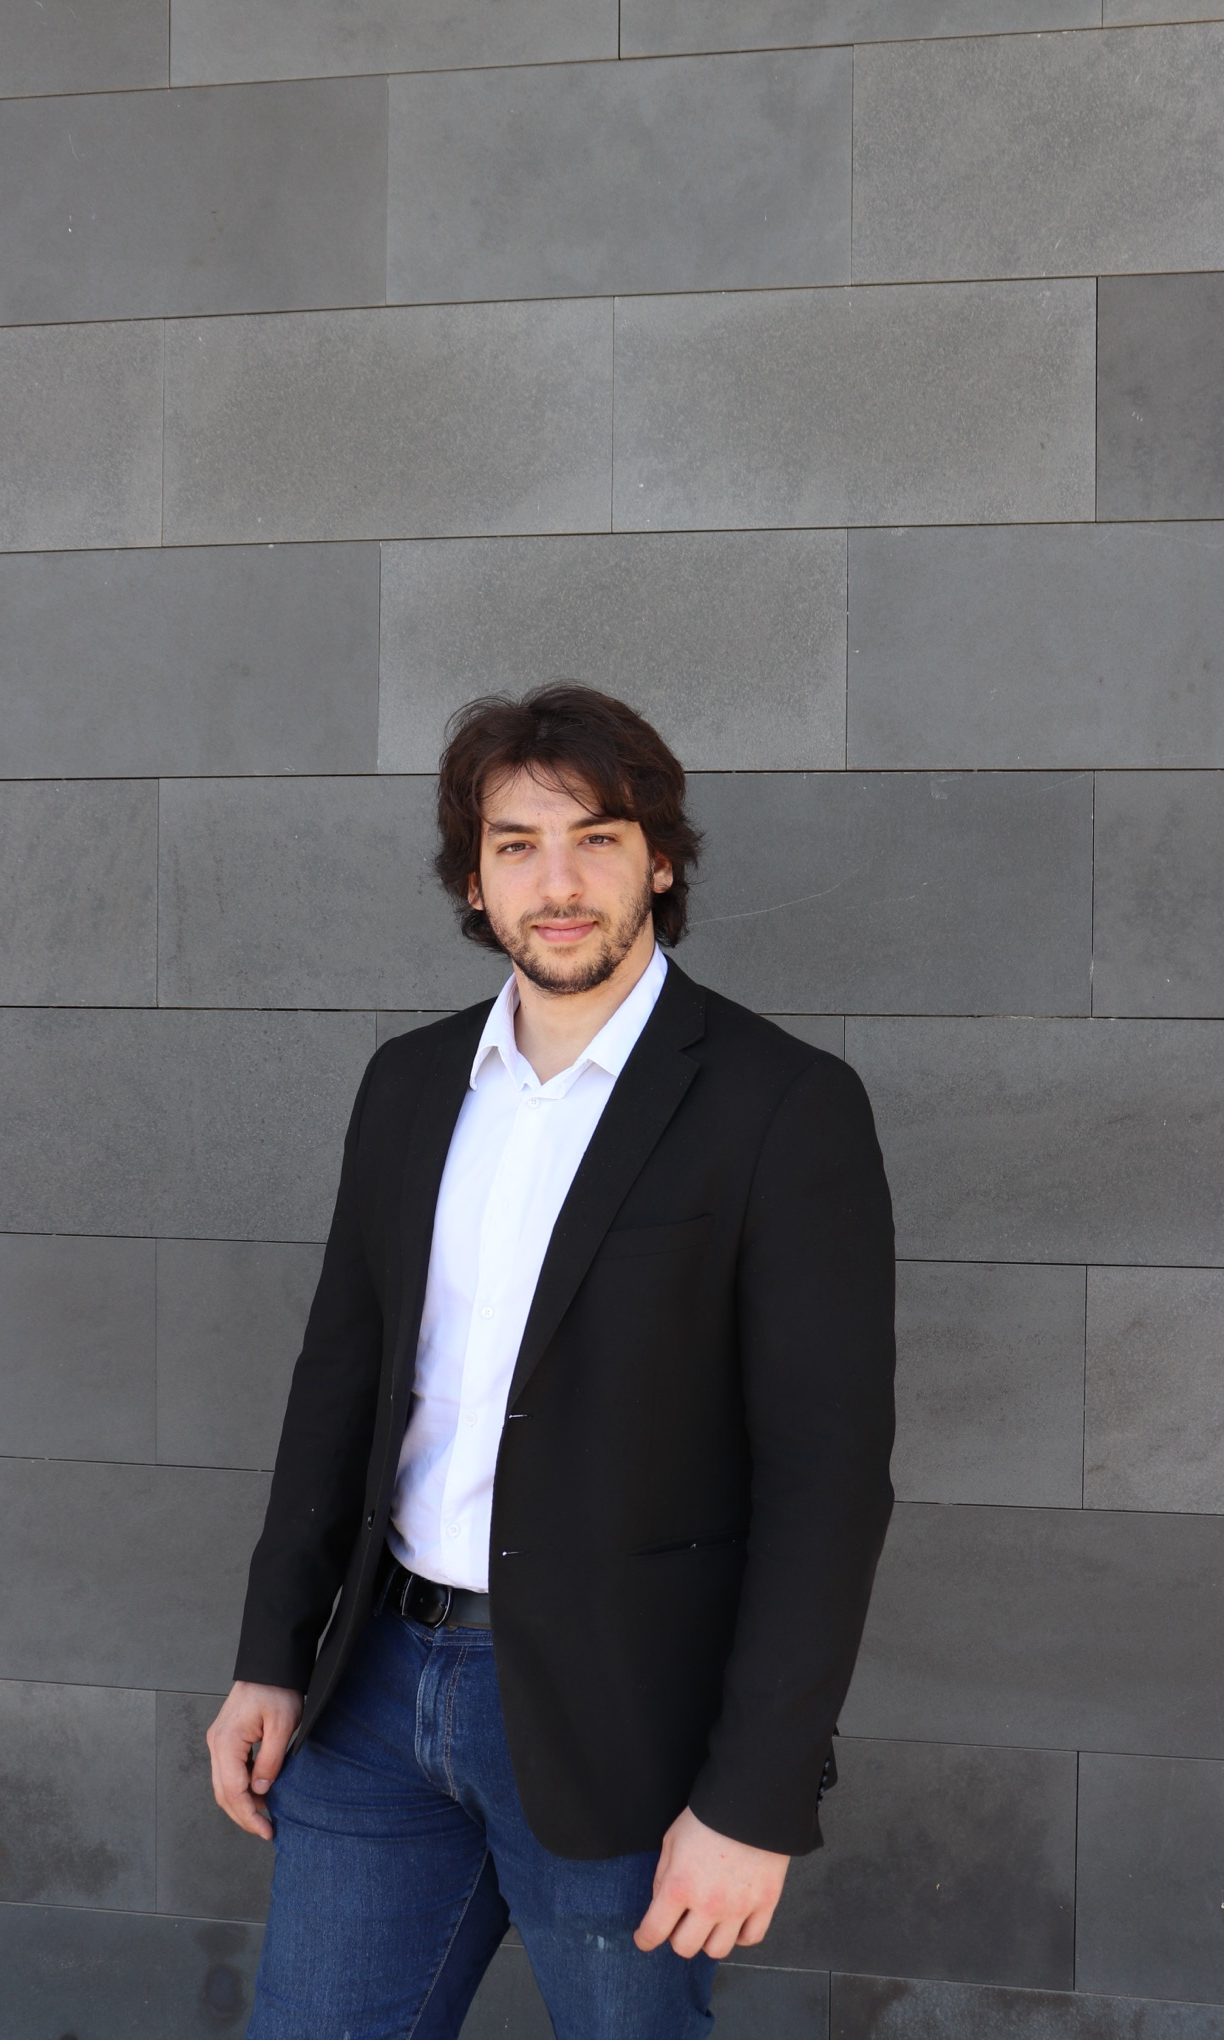
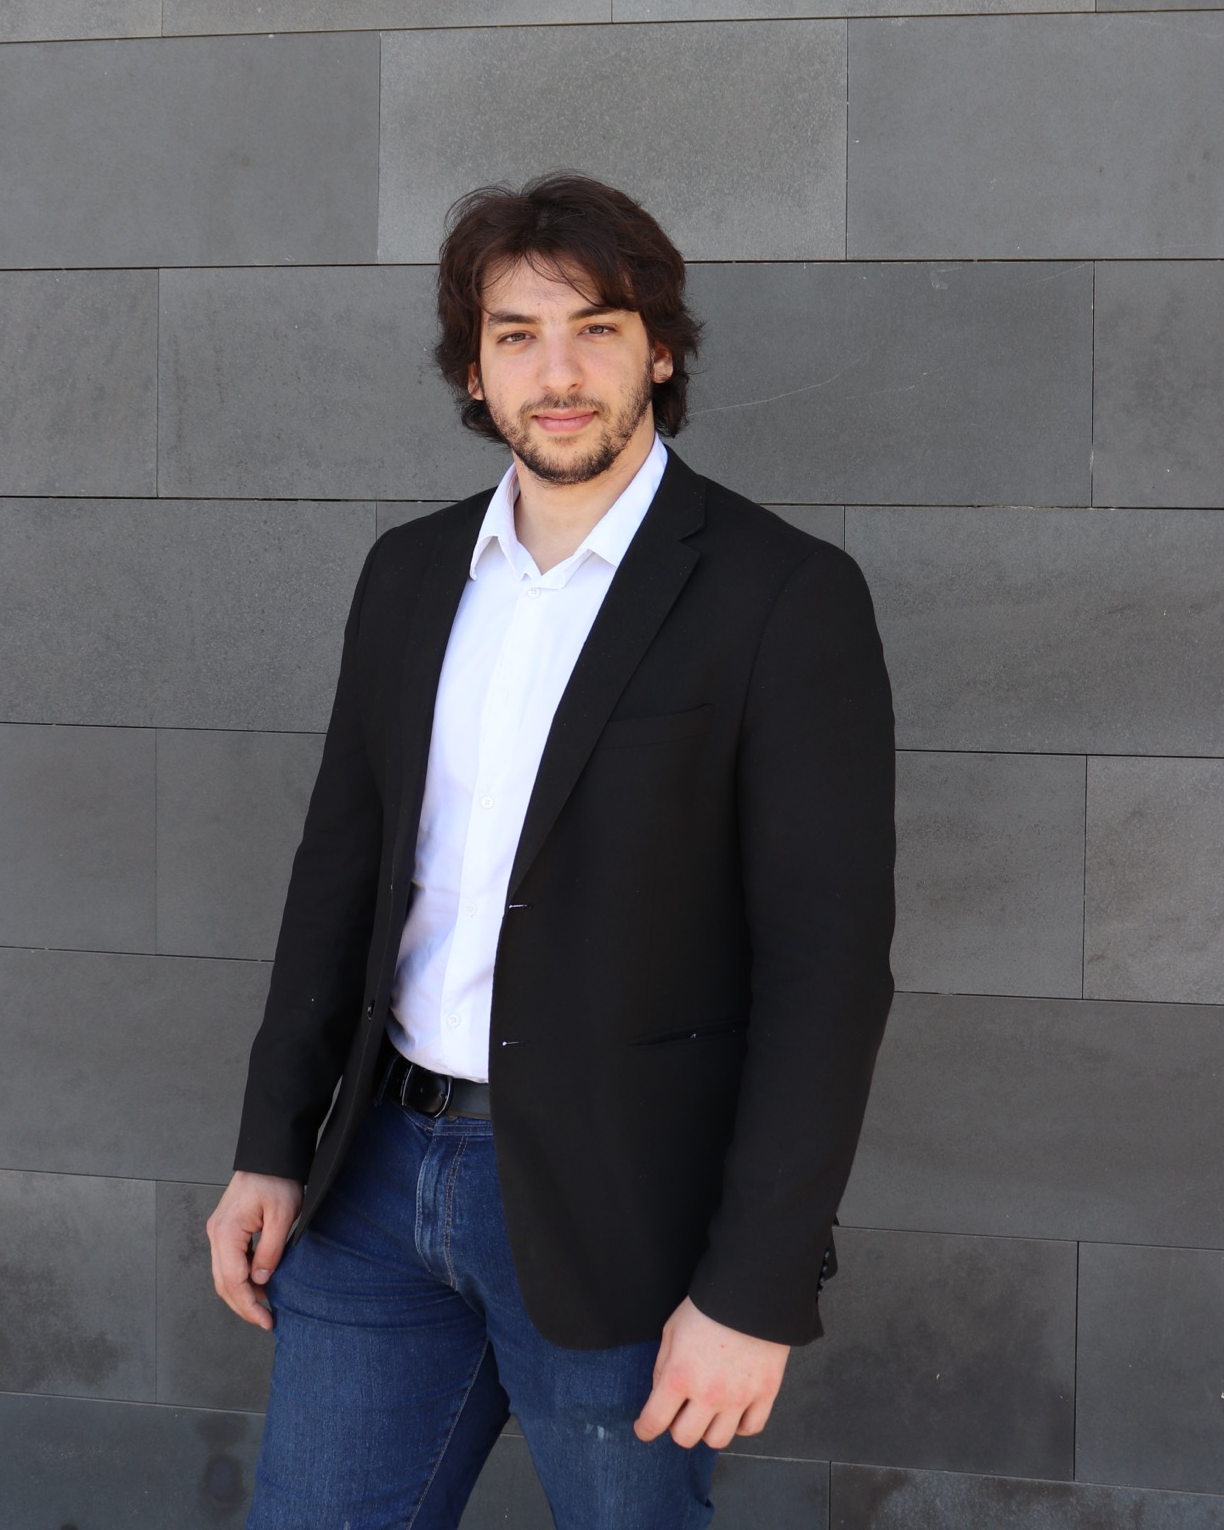
fix: Ajustar imagen desarrollador - recortar arriba y altura completa
- Recortar parte superior de la imagen
- Imagen ocupa altura completa del contenedor
- Texto a la izquierda, imagen a la derecha

diff --git a/components/admin/sections/AboutSection.tsx b/components/admin/sections/AboutSection.tsx
@@ -112,18 +112,18 @@ const styles = StyleSheet.create({
   },
   developerContainer: {
     flexDirection: 'row',
-    alignItems: 'stretch',
-    gap: Spacing.lg,
+    minHeight: 250,
   },
   developerImage: {
-    width: 120,
-    height: 200,
+    width: 150,
+    height: '100%',
     borderRadius: BorderRadius.md,
     resizeMode: 'cover',
   },
   developerInfo: {
     flex: 1,
     justifyContent: 'center',
+    paddingRight: Spacing.lg,
   },
   developerName: {
     fontSize: FontSizes.xl,
